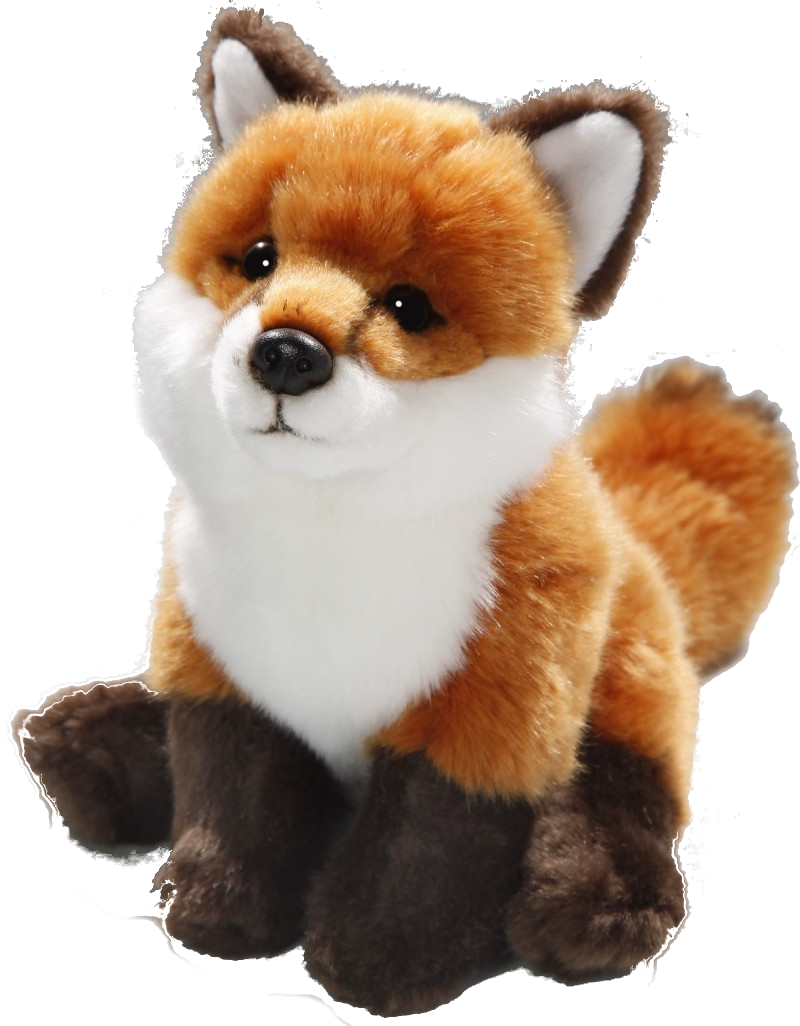
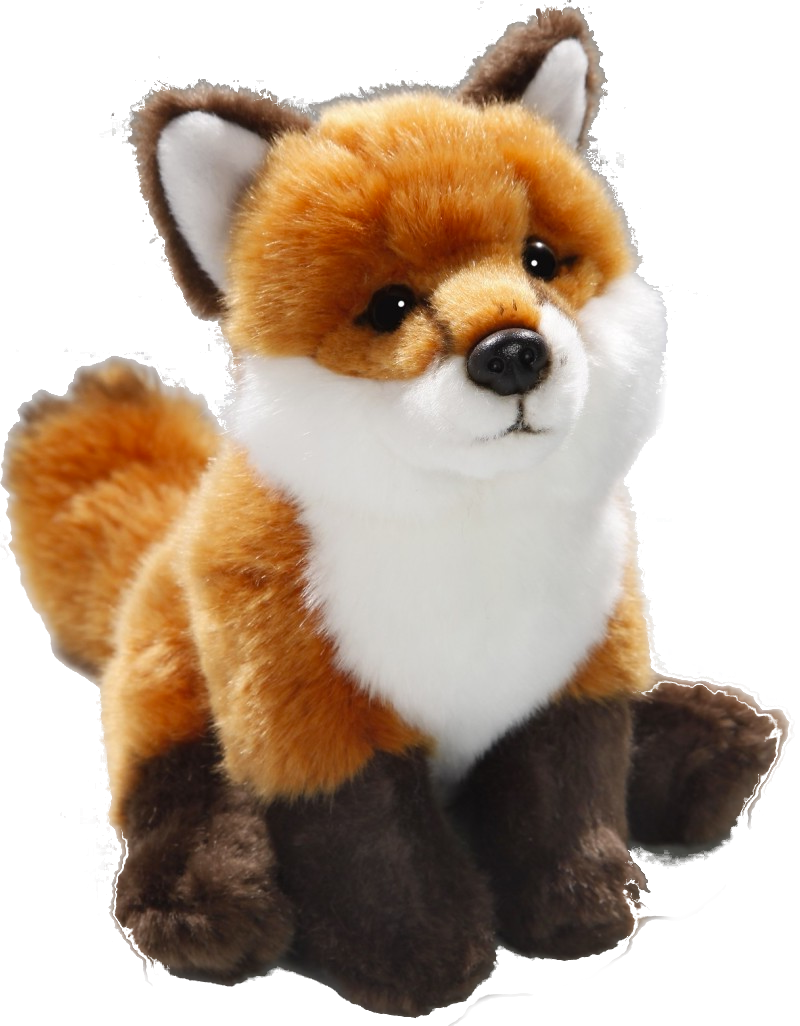
Plüschtier folgt jetzt dem Teddy

diff --git a/Plüschtier.js b/Plüschtier.js
@@ -7,10 +7,32 @@ class Plüschtier {
         this.breite = breite;
         this.höhe = höhe;
         this.genommen = false;
+        this.stehtAufEtwas = true;
+
+        this.amLaufen = 0;
     }
 
-    nehmen() {
+    folgen(teddy) {
         this.genommen = true;
+
+        this.teddy = teddy;
+        this.z = this.teddy.z - 1;
+        this.teddyBewegungen = [];
+    }
+
+    bewegen() {
+        if (!this.genommen) { return; }
+
+        let teddyStehtAufEtwas = this.teddy.stehtAufEtwas()
+        if (!teddyStehtAufEtwas || this.teddy.amLaufen) {
+            this.teddyBewegungen.push([ this.teddy.links, this.teddy.unten, this.teddy.amLaufen, teddyStehtAufEtwas ]);
+        }
+
+        if (this.teddyBewegungen.length > 50 || !this.stehtAufEtwas && this.teddyBewegungen.length > 0) {
+            [ this.links, this.unten, this.amLaufen, this.stehtAufEtwas ] = this.teddyBewegungen.shift();
+        } else {
+            this.amLaufen = false;
+        }
     }
 }
 
@@ -31,19 +53,29 @@ class PlüschtierDarsteller {
     }
 
     darstellen() {
-        if (this.plüschtier.genommen && this.genommen == false) {
-            this.genommen = true;
-
-            this.spielDarsteller.document.getElementById("Welt").removeChild(this.divPlüschtier);
-            this.spielDarsteller.document.body.appendChild(this.divPlüschtier);
-
-            this.plüschtier.links = 0;
-        }
-
         this.divPlüschtier.style.left = this.plüschtier.links + "px";
         this.divPlüschtier.style.bottom = this.plüschtier.unten + "px";
         this.divPlüschtier.style.width = this.plüschtier.breite + "px";
         this.divPlüschtier.style.height = this.plüschtier.höhe + "px";
         this.divPlüschtier.style["z-index"] = this.plüschtier.z;
+
+        if (this.plüschtier.amLaufen < 0) { this.spiegeln = -1; }
+        if (this.plüschtier.amLaufen > 0) { this.spiegeln = 1; }
+
+        // Lauf-Effekt (wackeln)
+        let rotate = "";
+
+        if (this.plüschtier.amLaufen && this.plüschtier.stehtAufEtwas) {
+            if (!this.gekipptSeit || this.gekipptSeit < Date.now() - 600) {
+                this.gekipptSeit = Date.now();
+            }
+            if ((Date.now() - this.gekipptSeit) % 200 < 100) {
+                rotate = "rotate(" + this.plüschtier.amLaufen * 5 + "deg)";
+            }
+        }
+
+        let scale = "scaleX(" + this.spiegeln + ")";
+
+        this.divPlüschtier.style.transform = rotate + " " + scale;
     }
 }

diff --git a/Spiel.js b/Spiel.js
@@ -44,10 +44,14 @@ class Spiel {
 
         for (let i = 0; i < this.allePlüschtiere.length; i++) {
             const plüschtier = this.allePlüschtiere[i];
-            
-            if (!plüschtier.genommen && this.teddy.stehtBei(plüschtier)) {
-                plüschtier.nehmen();
-                this.tönen("hm");
+
+            if (!plüschtier.genommen) {
+                if (this.teddy.stehtBei(plüschtier)) {
+                    plüschtier.folgen(this.teddy);
+                    this.tönen("hm");
+                }
+            } else {
+                plüschtier.bewegen();
             }
         }
     }
